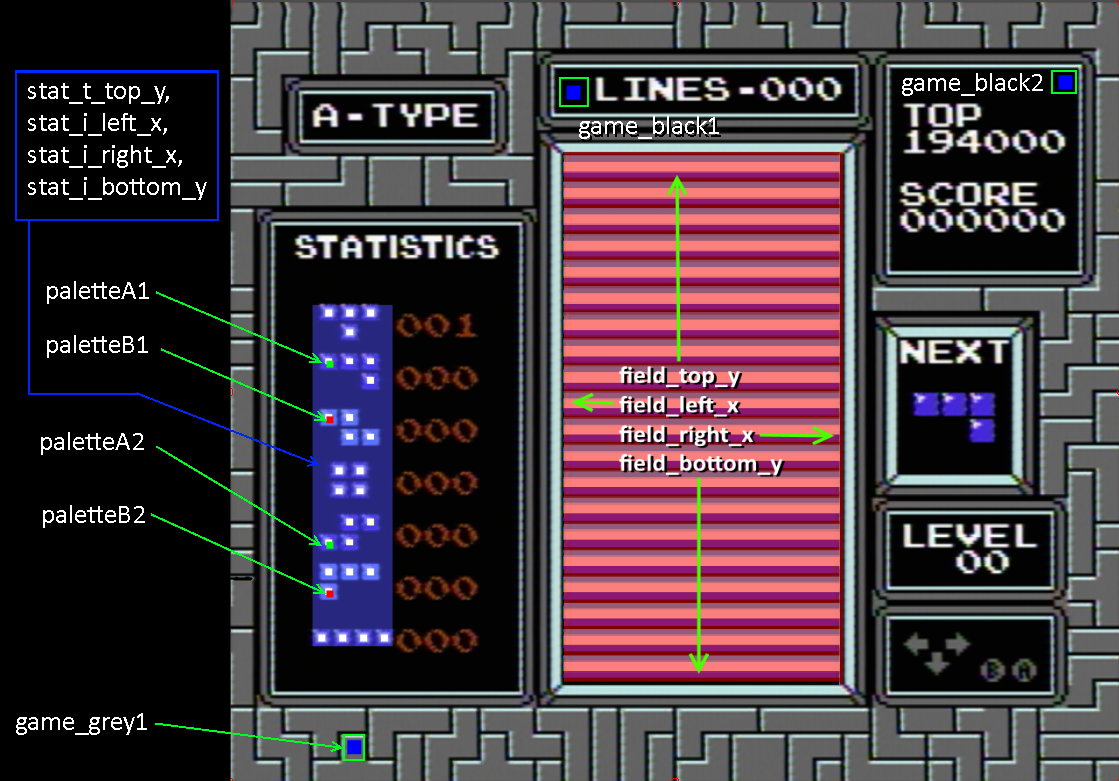
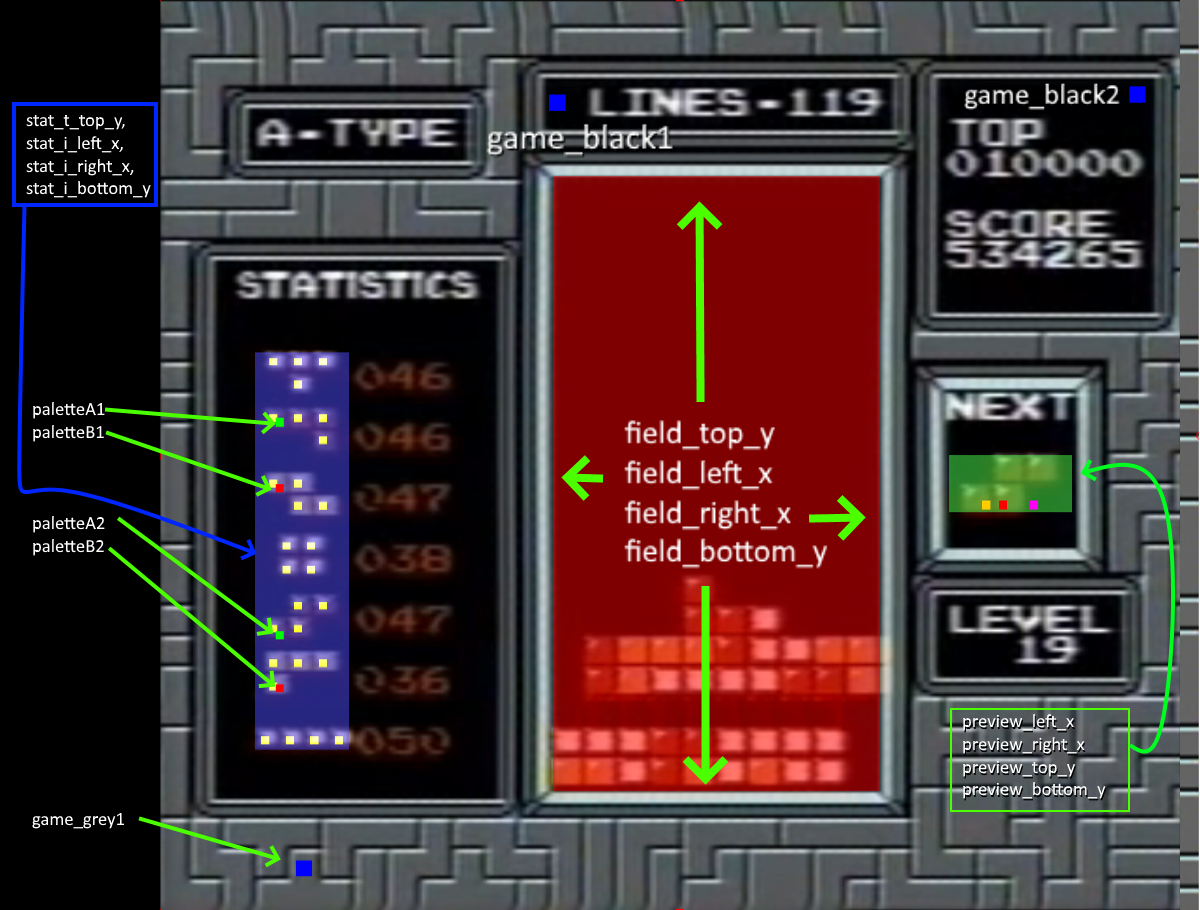
Added preview.

diff --git a/README.md b/README.md
@@ -81,14 +81,29 @@ This section enables the sharpening of your statistics window
 
 | Name           | default value   |
 | -------------- | -------------   |
-| sharpen_stats  | true (ticked)   |
+| sharpen_stats  | false (unticked)   |
 | stats_image    | blocks-stat.png |
 | stat_t_top_y   | 87              |
 | stat_i_left_x  | 24              |
 | stat_i_right_x | 47              |
 | stat_t_bottom_y| 185             |
 
+
 The algorithm for sharpening stats is the same as for your field. This means for best results, use and calibrate fixed_palette.
+
+# sharpen_preview
+This section enables the sharpening of your preview window
+
+| Name                 | default value   |
+| --------------       | -------------   |
+| sharpen_preview      | true (ticked)   |
+| preview_left_x       | 192             |
+| preview_right_x      | 223             |
+| preview_top_y        | 112             |
+| preview_bottom_y     | 128             |
+
+
+The algorithm for sharpening preview is the same as for your field. This means for best results, use and calibrate fixed_palette.
 
 # game / menu detection
 skip_detect_game - if you tick this, we will always be in game mode. if it is un-ticked, we check for menus.
